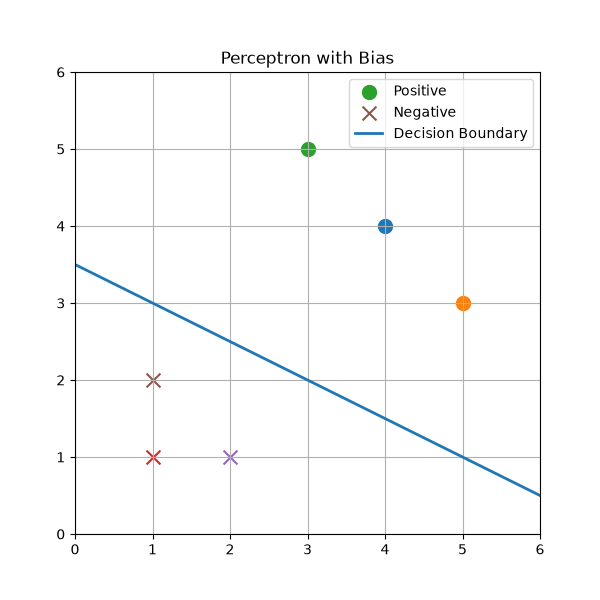
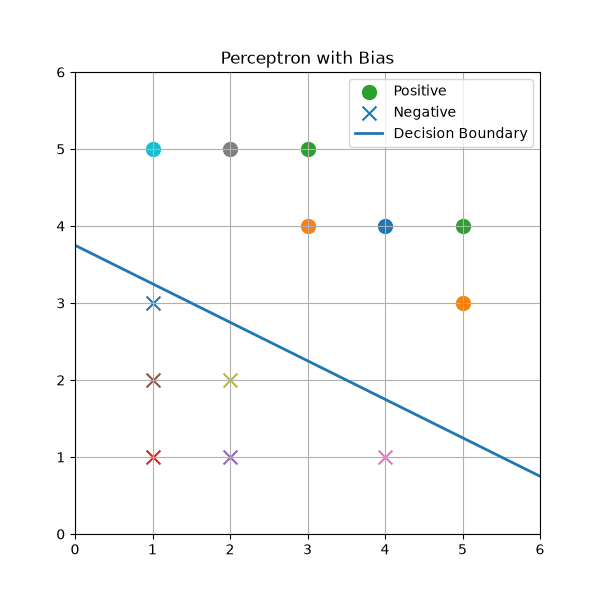
refineing

diff --git a/unit_0/lecture_2/perceptron2.py b/unit_0/lecture_2/perceptron2.py
@@ -12,7 +12,14 @@ X = np.array([
     [3, 5],
     [1, 1],
     [2, 1],
-    [1, 2]
+    [1, 2],
+    [4, 1],
+    [2, 5],
+    [2, 2],
+    [1, 5],
+    [1, 3],
+    [3, 4],
+    [5, 4]
 ])
 
 y = np.array([
@@ -21,7 +28,14 @@ y = np.array([
     1,
     -1,
     -1,
-    -1
+    -1,
+    -1,
+    1,
+    -1,
+    1,
+    -1,
+    1,
+    1
 ])
 
 # Add bias feature (constant 1)
@@ -90,8 +104,7 @@ def perceptron(X, y, epochs=20):
 
             prediction = predict(xi, theta)
 
-            # if prediction != yi:
-            if yi * np.dot(theta, xi) <= 0:
+            if prediction != yi:
 
                 theta = theta + yi * xi
 
